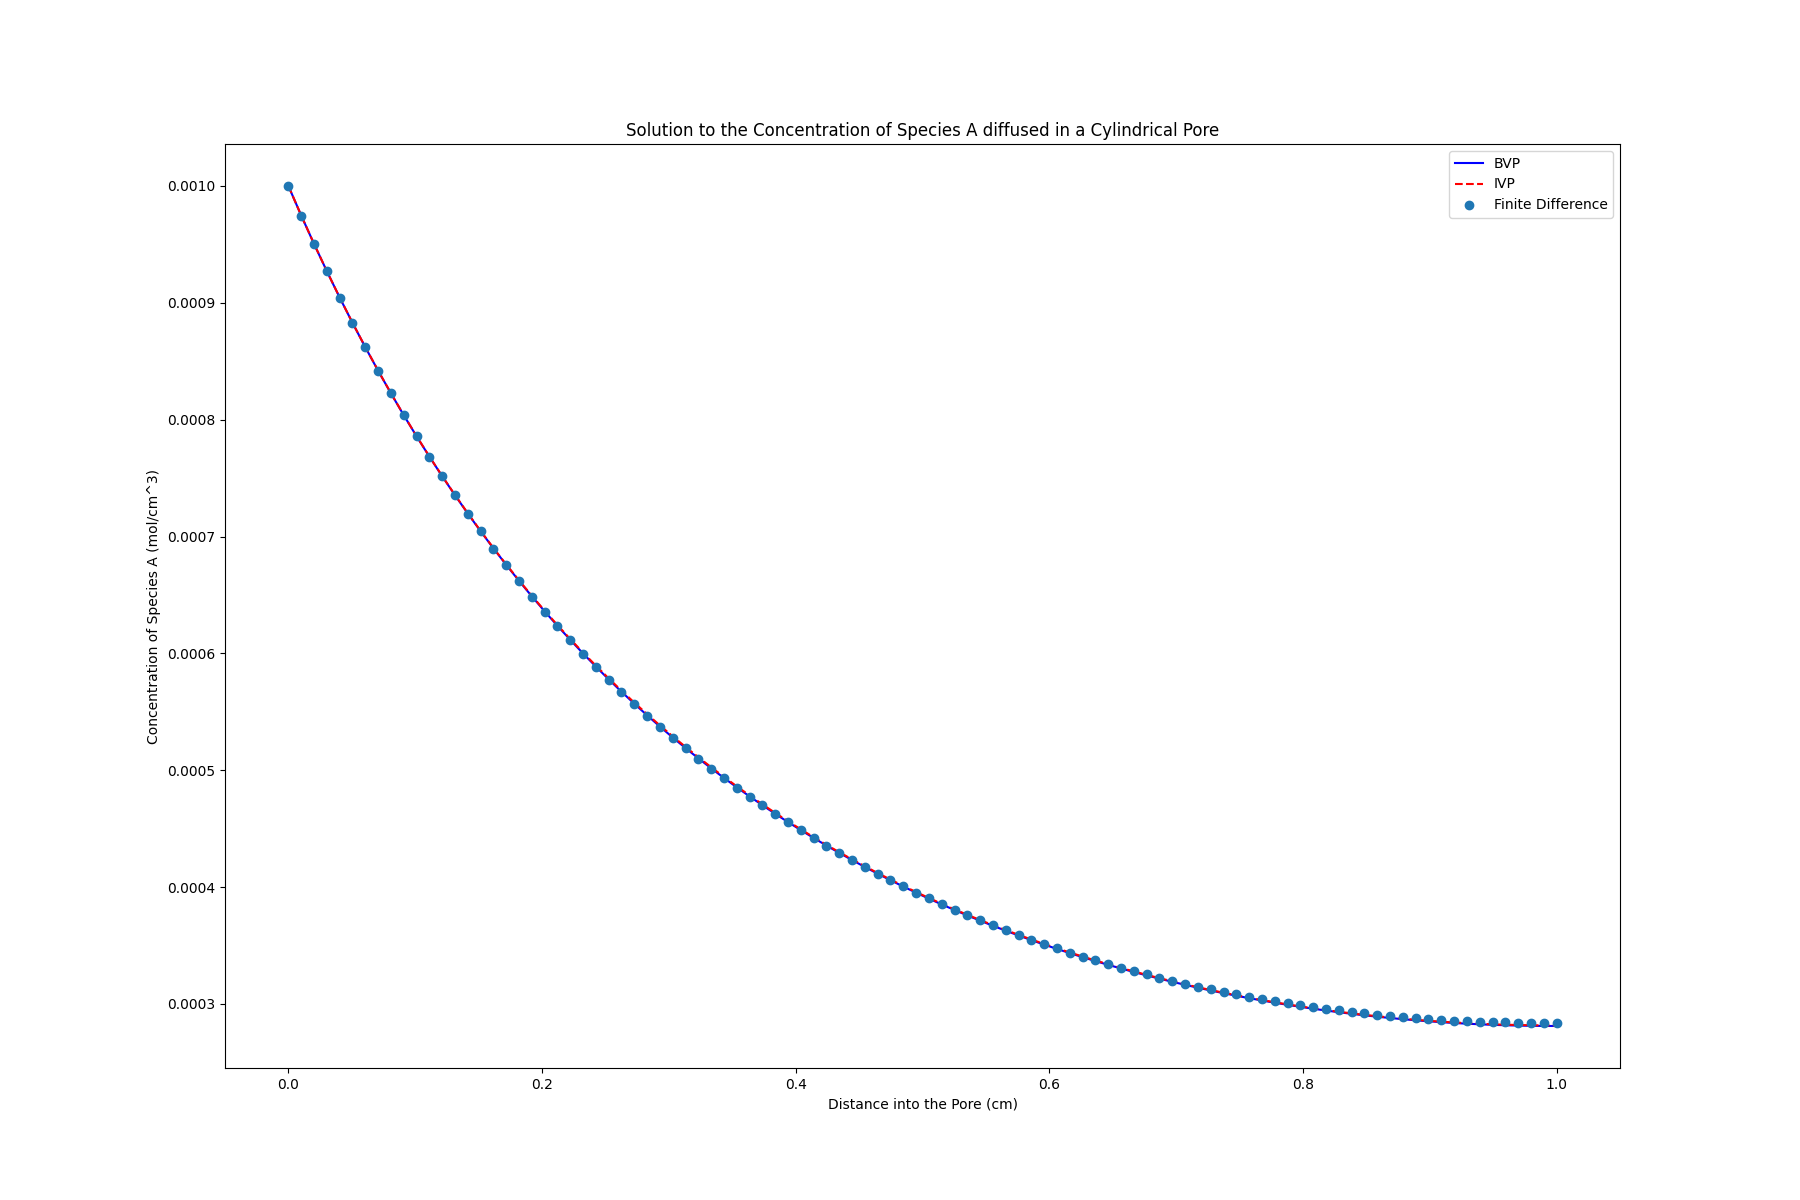
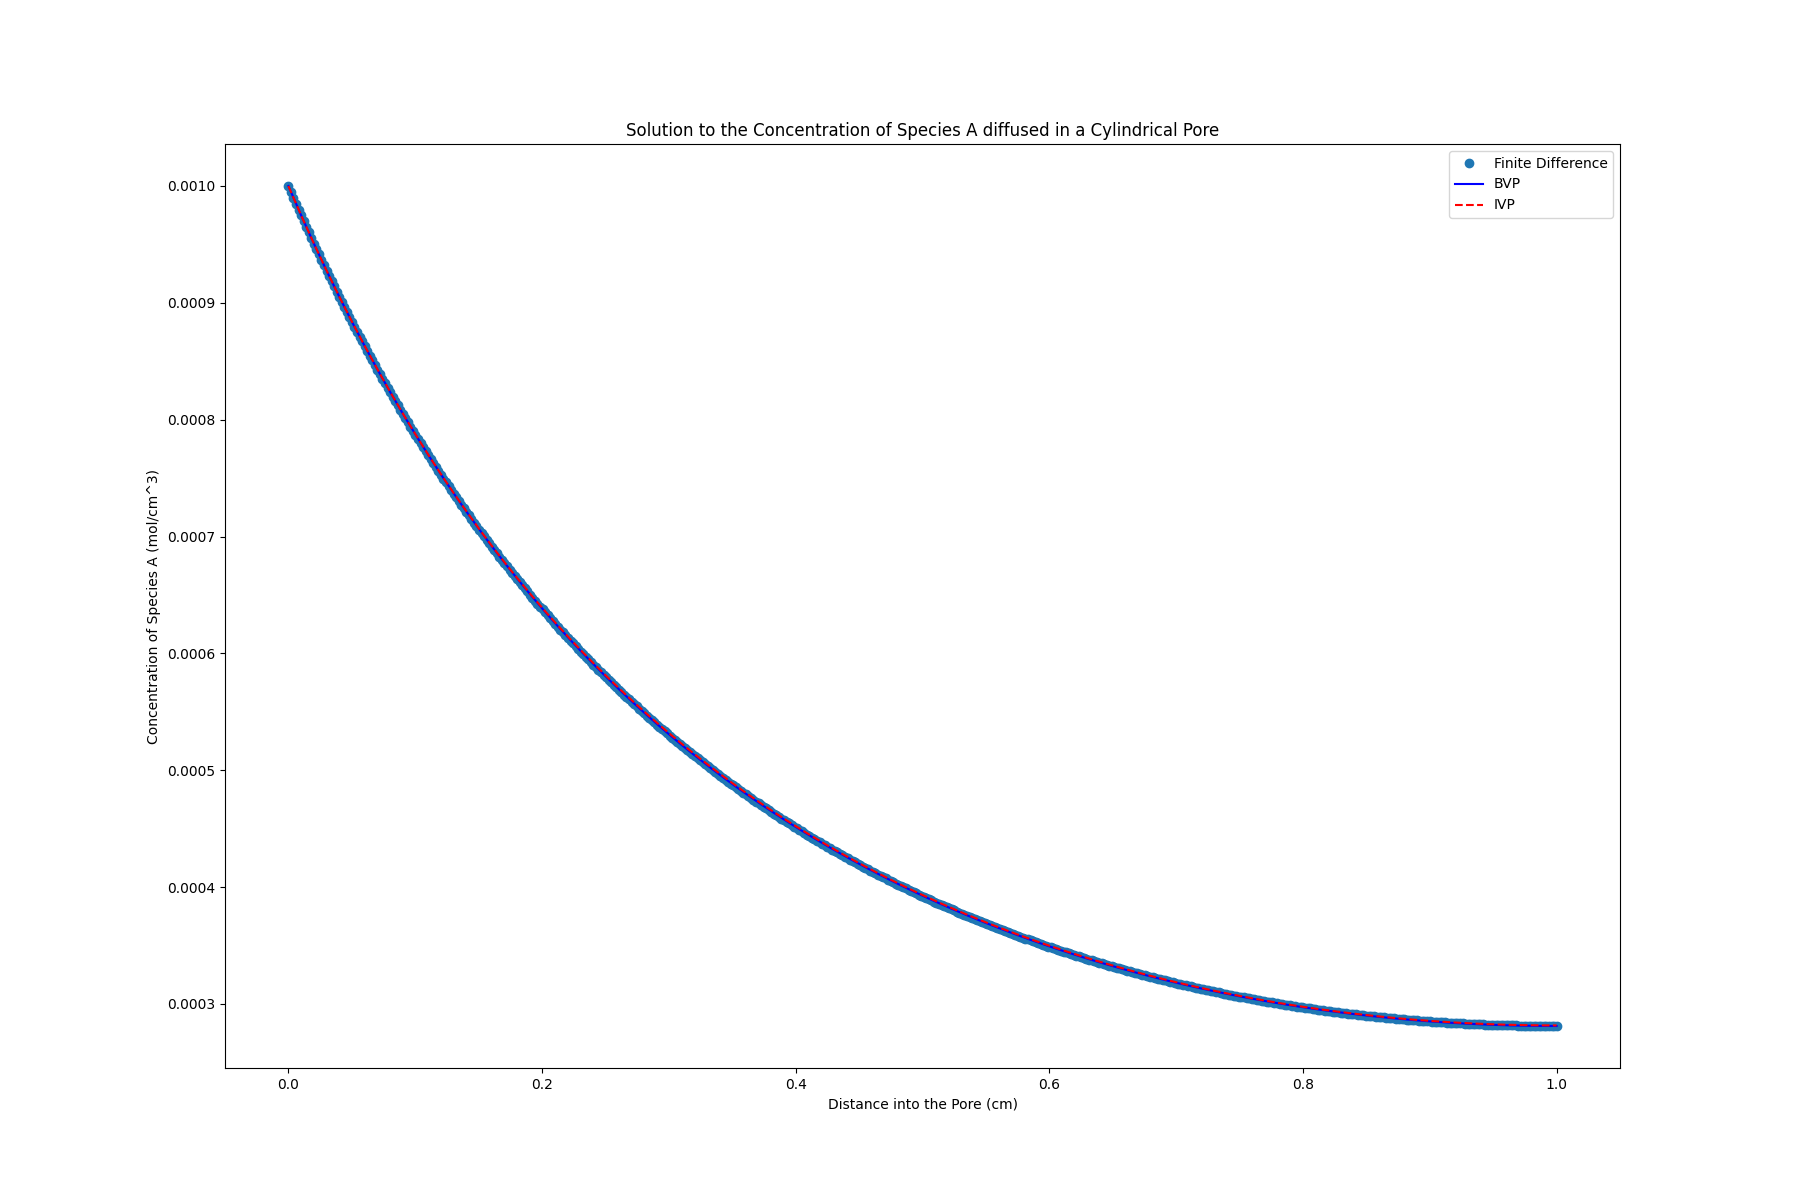
Assignment 3 Complete

diff --git a/Assignments/Assignment 3/system_ODEs_question3.py b/Assignments/Assignment 3/system_ODEs_question3.py
@@ -14,60 +14,131 @@ import matplotlib.pyplot as plt
 #
 
 # Define Variables and Constants
-k = 10 #cm^3 / (mol * s)
-Da = 1 * 10**(-3) #cm^2/s
-Ca0 = 1 * 10**(-3) # mol/cm^3
+k = 10  # cm^3 / (mol * s)
+Da = 1 * 10 ** (-3)  # cm^2/s
+Ca0 = 1 * 10 ** (-3)  # mol/cm^3
 
 # Define the Span of X
 xInit = 0
-xEnd = 1.0 # cm
+xEnd = 1.0  # cm
 
-# Define the Number of Points and the Solution Vector
-n = 100
-x = np.linspace(0, 1, n)
+# Define Number of Points
+n = 500
+x = np.linspace(xInit, xEnd, n)
 
 # Define dx
-dx = (xEnd - xInit)/(n-1)
+dx = (xEnd - xInit) / (n - 1)
 
 # Create an Initial Guess Vector
 Cguess = np.ones(n) * Ca0
 
-def Matrix (CAs):
-    
+# Define a Function representing the System of Equations
+def Matrix(CAs, n, dx):
+
     # Initialize the System of Equations
     system = np.zeros(n)
-    
+
     # Apply first Boundary Conditions
     system[0] = CAs[0] - Ca0
-    
+
     # Iterate over the Internal Nodes
-    for i in range(1, n-1):
-        system[i] = CAs[i+1] - 2*CAs[i] + CAs[i-1] - ((k*dx**2)/Da)*(CAs[i]**2)
-    
+    for i in range(1, n - 1):
+        system[i] = (CAs[i + 1] - 2 * CAs[i] + CAs[i - 1] - ((k * dx**2) / Da) * (CAs[i] ** 2))
+
     # Apply Second Boundary Condition
-    system[n-1] = 2*CAs[i-1] - 2*CAs[i] - ((k*dx**2)/Da)*(CAs[i]**2)
-    
+    system[n - 1] = 2 * CAs[i - 1] - 2 * CAs[i] - ((k * dx**2) / Da) * (CAs[i] ** 2)
+
     # Return the System of Equations
     return system
+
+# Define a Function that solves Finite Differences with Varying n Value
+def SolveFiniteDiff (n):
+    # Define Number of Points
+    x = np.linspace(xInit, xEnd, n)
+
+    # Define dx
+    dx = (xEnd - xInit) / (n - 1)
+
+    # Create an Initial Guess Vector
+    Cguess = np.ones(n) * Ca0
     
-# Use FSolve to solve the System
-sol = fsolve(Matrix, Cguess)
+    Sol = fsolve(Matrix, Cguess, args=(n, dx))
+    
+    return [Sol, x]
 
+#finDifSol = fsolve(Matrix, Cguess, args=(n, dx))
+[finDifSol, x] = SolveFiniteDiff(n)
 
 #
 #
-# Copy Paste of the Question 2 Solution
+# Checking the convergence Method
+#
+#
+
+# ii) 
+# We can know that the solution has converged by increasing/doubling the number of nodes to be solved for in the finite difference method, and if error 
+# between the previous iteration and the current is close, we know we have converged upon a solution
+
+# Create a new Figure
+plt.figure(figsize=(18, 12))
+
+# Define the Number of Points and the Solution Vector
+nConv = 5
+
+# Define the Error Tolerance
+tol = 1*10**-3
+
+# Solve first Iteration
+[prevSol, prevX] = SolveFiniteDiff(nConv)
+
+# Plot the First Iteration
+plt.plot(prevX, prevSol, "--", label="Iter = 0")
+
+# Iterate through multiple Points
+for i in range(1, 10):
+    
+    # Double the Number of Points
+    nConv = nConv*2
+    
+    # Solve for the Doubled System
+    [newSol, xConv] = SolveFiniteDiff(nConv)
+    
+    # Plot our New Iteration
+    plt.plot(xConv, newSol, "--", label=f"Iter = {i}")
+
+    # Interpolate the number of Points so that we can compare to the new solution
+    inter = np.interp(xConv, prevX, prevSol)
+    
+    # Get the Error, if Max Error is below thershold we can break out of Loop
+    if np.max(np.abs((newSol - inter)/newSol)) < tol:
+        break
+    
+    # Save the new Solution as the Previous Values
+    prevX = xConv
+    prevSol = newSol
+
+# Show the Plot
+plt.legend()
+plt.title("Visual Display of Finite Difference Convergence")
+plt.xlabel("Distance into the Pore (cm)")
+plt.ylabel("Concentration of Species A (mol/cm^3)")
+plt.savefig("Q3_Convergence.png")
+plt.show()
+
+#
+#
+# Copy Paste of the Question 2 Solution (for comparing)
 #
 #
 
 # Define Variables and Constants
-k = 10 #cm^3 / (mol * s)
-Da = 1 * 10**(-3) #cm^2/s
-Ca0 = 1 * 10**(-3) # mol/cm^3
+k = 10  # cm^3 / (mol * s)
+Da = 1 * 10 ** (-3)  # cm^2/s
+Ca0 = 1 * 10 ** (-3)  # mol/cm^3
 
 # Define the Span of X
 xInit = 0
-xEnd = 1.0 # cm
+xEnd = 1.0  # cm
 
 # Define the Number of Points and the Arrays
 n = 100
@@ -75,28 +146,28 @@ xVals = np.linspace(xInit, xEnd, n)
 yVals = np.zeros((2, xVals.size))
 
 # Define the Differential Function
-def dfdx (x, f):
+def dfdx(x, f):
     # Decompose f into System of Equations
     [Ca, u] = f
-    
+
     # Return the System
-    return [u, 
-            (k*Ca**2)/Da]
+    return [u, (k * Ca**2) / Da]
 
 #
 # Solve BVP Method
 #
 
 # Define the Boundary Conditions
-def BCs (fa, fb):
-    
+def BCs(fa, fb):
+
     # Define the First Boundary Condition (Ca(0) = Ca0)
     BC1 = fa[0] - Ca0
-    
+
     # Define the Second Boundary Condition (dCa/dx (L) = 0)
     BC2 = fb[1]
-    
-    return [BC1,BC2]
+
+    return [BC1, BC2]
+
 
 # Solve using the BVP Method
 solBVP = solve_bvp(dfdx, BCs, xVals, yVals)
@@ -109,16 +180,15 @@ CaValsBVP = solBVP.y[0]
 #
 
 # Use Shooting Method Solver
-def Solver (uGuess):
+def Solver(uGuess):
     # Define the Boundaries
     CaInit = Ca0
-    
+
     # Solve for the Guess Using uGuess
     yGuess = solve_ivp(dfdx, (xInit, xEnd), [CaInit, uGuess[0]])
-    
+
     # Return the Last Value that we Are trying to solve for
     return yGuess.y[1, -1]
-
 
 # Make an Initial Guess (Magic Number)
 uGuessInit = [-0.001]
@@ -136,15 +206,15 @@ solIVP = solve_ivp(dfdx, (0, 1), [Ca0, correctU[0]], t_eval=xVals)
 CaValsIVP = solIVP.y[0]
 
 #
-# Plot the Results
+# Plot the Results (iii)
 #
 plt.figure(figsize=(18, 12))
+plt.plot(x, finDifSol, "o", label="Finite Difference")
 plt.plot(solBVP.x, CaValsBVP, "b-", label="BVP")
-plt.plot(solIVP.t, CaValsIVP, "r--" , label="IVP")
+plt.plot(solIVP.t, CaValsIVP, "r--", label="IVP")
 plt.xlabel("Distance into the Pore (cm)")
 plt.ylabel("Concentration of Species A (mol/cm^3)")
 plt.title("Solution to the Concentration of Species A diffused in a Cylindrical Pore")
-plt.plot(x, sol, "o", label="Finite Difference")
 plt.legend()
 plt.savefig("Q3_FiniteDiff_Graph")
 plt.show()

diff --git a/Assignments/Assignment 3/elliptic_PDE.py b/Assignments/Assignment 3/elliptic_PDE.py
@@ -1,0 +1,140 @@
+# Imports
+import numpy as np
+from scipy.integrate import solve_bvp, solve_ivp
+from scipy.optimize import fsolve
+import matplotlib.pyplot as plt
+
+#
+# Alexandre Dufresne-Nappert
+# 20948586
+#
+
+# Define the Number of Nodes (n = x, m = y)
+n = 3
+m = 3
+totalNodes = n * m
+dx = dy = 0.1
+
+# Define the Boundary Condition Values
+T_left = 50
+T_bottom = 20
+
+#
+#
+# Solving for Sigma = 0
+#
+#
+
+#
+# Start Building the frame of the A Matrix
+#
+
+# Define the Middle Diagonal
+Amid = np.diag((-4) * np.ones(totalNodes))
+
+# Define the Diagonal 1 below and above
+Au1 = np.diag(np.ones(totalNodes - 1), 1)
+Ab1 = np.diag(np.ones(totalNodes - 1), -1)
+
+# Define the Diagonal 3 Below and Under
+Au3 = np.diag(np.ones(totalNodes - 3), 3)
+Ab3 = np.diag(np.ones(totalNodes - 3), -3)
+
+# Add Up everything
+A = Amid + Au1 + Ab1 + Au3 + Ab3
+
+# Make Appropriate Modifications due to Boundaries
+for i in range(3):
+    # Apply the Top Boundary Condition
+    A[6 + i, 3 + i] = 2
+
+    # Apply The Right Boundary Condition
+    A[2 + i * n, 1 + i * m] = 2
+
+# Leftovers from Boundary Conditions
+for i in range(2):
+    A[3 + i * n, 2 + i * n] = 0
+    A[2 + i * n, 3 + i * n] = 0
+
+#
+# Make the B Vector
+#
+
+# Empty b Vector
+b = np.zeros(totalNodes)
+
+# Apply Boundary Conditions
+b[:n] -= T_bottom
+b[::m] -= T_left
+
+# Solve the Matrix
+TSol = np.linalg.solve(A, b)
+
+# Create empty T Matrix
+T = np.zeros((4, 4))
+
+# Apply Boundary Conditions
+T[:, 0] = T_left
+T[-1, :] = T_bottom
+
+# Paste the Solution into the Matrix
+T[2, 1:] = TSol[:n]
+T[1, 1:] = TSol[n : 2 * n]
+T[0, 1:] = TSol[2 * n : 3 * n]
+
+# Display the Solution
+print("\nSigma = 0 Solution")
+print(T)
+
+#
+#
+# Solviong for Sigma = 1*10^-4
+#
+#
+
+# Define Unique values for this instance of the problem
+sigma = 1 * 10**-4
+Ta = 25
+
+# Create empty T Matrix
+T = np.zeros((4, 4))
+
+# Apply Boundary Conditions
+T[:, 0] = T_left
+T[-1, :] = T_bottom
+
+# Define a Counter for Max Iterations and the Error Matrix, Max Iterations alowed, a tolerance and a lamda for relaxation
+maxIter = 100
+k = 0
+eps = 100 * np.ones(T.shape)
+tol = 1 * 10**-8
+lam = 1.1
+
+# Iterate over Solving
+while k < maxIter and np.max(eps[:-1, 1:]) > tol:
+    for row in range(n - 1, -1, -1):
+        for col in range(1, m + 1):
+
+            # Store/Save the Previous Value
+            oldVal = T[row, col]
+
+            # Cover the Appriate Cases
+            if row == 0 and col == m:  # Top Right Corner
+                T[row, col] = 0.25 * (2 * T[row - 1, col]+ 2 * T[row, col - 1]+ dx**2 * sigma * (Ta - T[row, col] ** 4))
+            elif row == 0:  # Top Side
+                T[row, col] = 0.25 * (T[row - 1, col]+ T[row + 1, col]+ 2 * T[row, col - 1]+ dx**2 * sigma * (Ta - T[row, col] ** 4))
+            elif col == m:  # Right Side
+                T[row, col] = 0.25 * (2 * T[row - 1, col]+ T[row, col - 1]+ T[row, col - 1]+ dx**2 * sigma * (Ta - T[row, col] ** 4))
+            else:  # Any other case
+                T[row, col] = 0.25 * (T[row - 1, col] + T[row + 1, col]+ T[row, col - 1]+ T[row, col - 1]+ dx**2 * sigma * (Ta - T[row, col] ** 4))
+
+            # Apply some Relaxation
+            T[row, col] = lam * T[row, col] + (1 - lam) * oldVal
+
+            # Update the Error Matrix
+            eps[row, col] = np.abs((T[row, col] - oldVal) / T[row, col])
+    k += 1
+
+# Display the Resulting Solution
+print("\nSigma = 1-e4 Solution")
+print(T)
